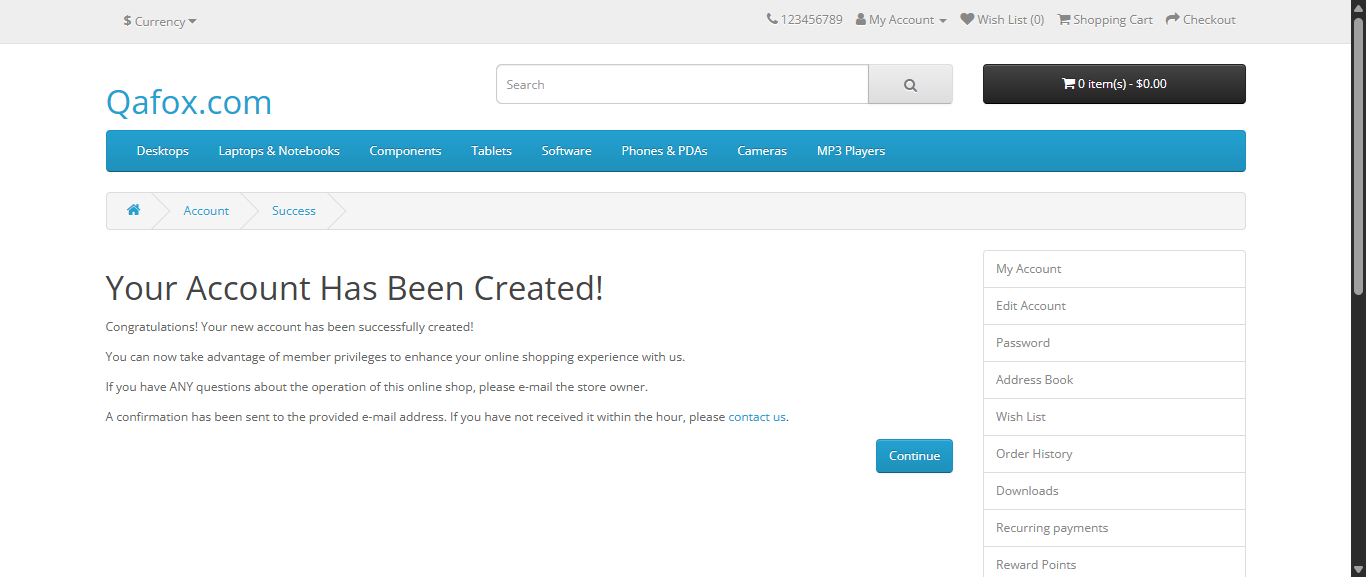
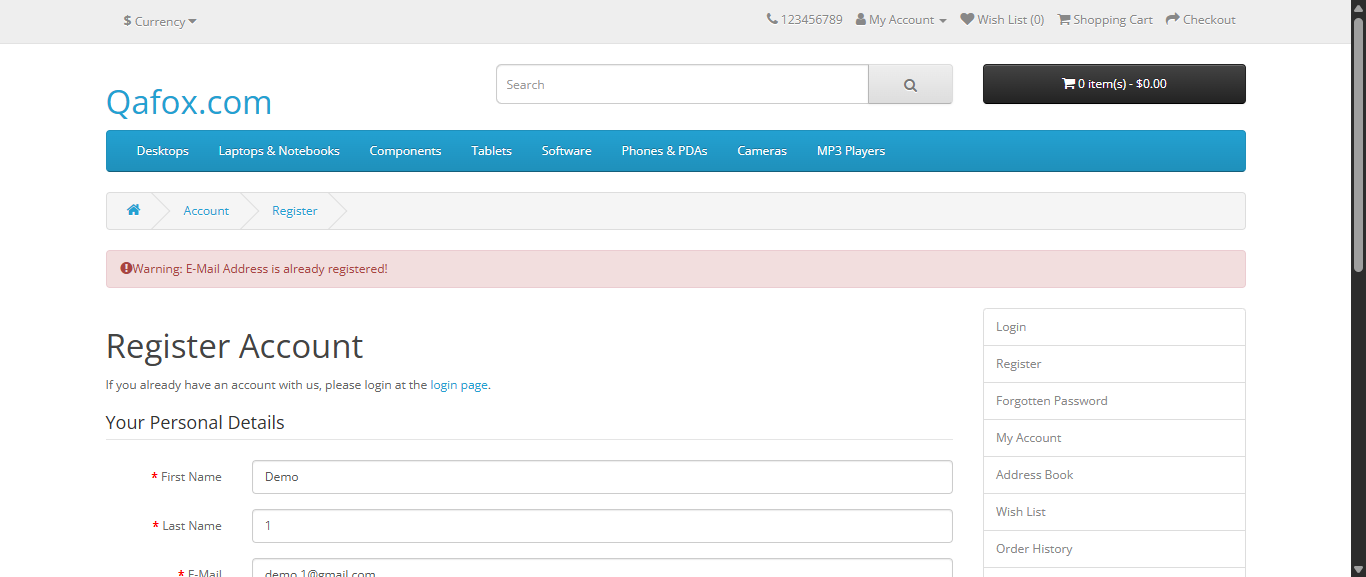
Assessment-24

diff --git a/RohiniM_Assessment24_Pytest/Assessment24/test_automationtesting.py b/RohiniM_Assessment24_Pytest/Assessment24/test_automationtesting.py
@@ -12,17 +12,10 @@ class TestAutomationTestingShop:
         driver.get("https://practice.automationtesting.in/shop/")
         driver.find_element(By.XPATH,"//h3[text()='JS Data Structures and Algorithm']").click()
         title = driver.find_element(By.XPATH,"//h1[@itemprop='name']").text
-
         assert title == "JS Data Structures and Algorithm"
         assert "learning-javascript-data-structures-and-algorithm" in driver.current_url
 
-    @pytest.mark.smoke
-    def test_validate_js_book(self):
-        driver.get("https://practice.automationtesting.in/shop/")
-        driver.find_element(By.XPATH,"//h3[text()='JS Data Structures and Algorithm']").click()
-        title = driver.find_element(By.XPATH, "//h1[@itemprop='name']").text
-        assert title == "JS Data Structures and Algorithm"
-        assert "learning-javascript-data-structures-and-algorithm" in driver.current_url
+   
 
     @pytest.mark.regression
     def test_book_count(self):
@@ -30,15 +23,6 @@ class TestAutomationTestingShop:
         driver.find_element(By.XPATH,"//a[contains(text(),'HTML')]").click()
         books = driver.find_elements(By.XPATH,"//ul[contains(@class,'products')]/li")
         assert len(books) == 3
-    
-    @pytest.mark.regression
-    def test_sortbyprice(self):
-        driver.get("https://practice.automationtesting.in/shop/")
-        sortbtn= Select(driver.find_element(By.XPATH,"//select[@name='orderby']"))
-        sortbtn.select_by_value("price")
-        prices = driver.find_element(By.XPATH,"//span[@class='woocommerce-Price-amount amount']")
-        price =  prices.replace("₹", "").strip()
-        prices(price)
      
     
     def test_subscribe_btn(self):

diff --git a/RohiniM_Assessment24_Pytest/Assessment24/Actions/Base_Action.py b/RohiniM_Assessment24_Pytest/Assessment24/Actions/Base_Action.py
@@ -22,5 +22,4 @@ class base_actions():
             return False
         
     def get_elements(self, locator):
-        return self.wait.until(EC.presence_of_all_elements_located((By.XPATH, locator))
-    )
+        return self.wait.until(EC.presence_of_all_elements_located(By.XPATH, locator))

diff --git a/RohiniM_Assessment24_Pytest/Assessment24/Actions/Search_Action.py b/RohiniM_Assessment24_Pytest/Assessment24/Actions/Search_Action.py
@@ -19,7 +19,6 @@ class search_actions():
 
     def verify_product_present(self, product_name):
         products = self.get_products()
-        time.sleep(5)
         for product in products:
             if product_name.lower() in product.lower():
                 return True
